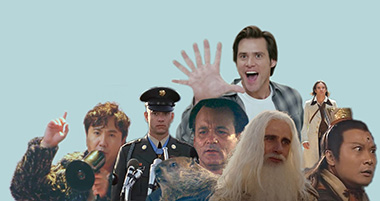
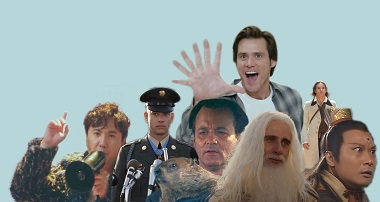
Add files via upload

diff --git a/index.html b/index.html
@@ -11,7 +11,7 @@ body {
 }
 #apDiv1 {
 	position: absolute;
-	left: 238px;
+	left: 100px;
 	top: 96px;
 	width: 931px;
 	height: 124px;
@@ -32,18 +32,26 @@ h3 {
 </head>
 
 <body>
-<div id="apDiv1">
-  <h1><strong><em>Look  here&darr;</em></strong></h1>
-  <li><a href="./file/pintu.tif" target="_blank" title="点击下载原图"><img src="./file/pintu.jpg" alt="人"></a></li>
-  <a href="https://www.baidu.com" target="_blank" title="场景"><img src="./file/sb.jpg" alt="人"></a></li>
-  
-  <blockquote>
-	
-    <h3>Hello,  audience. Welcome to watch this page. This page is only for testing. Thank you.</h3>
-  </blockquote>
+<div id="apDiv1" style="margin-left: auto;  margin-right: auto;  width: auto; height:auto; background-color:rgba(170, 255, 248, 0.2);  padding:20px 0 15px 0">
+ <ul style="list-style-type:none;" ><!--去除列表开头的黑点-->
+	  <h1><strong><em>图片Look  here&darr;</em></strong></h1>
+	  <li>
+		  <a href="./file/pintu.tif" target="_blank" title="点击下载原图"><img src="./file/pintu.jpg" style="width: 300px;height:200.2px" alt="人"></a>
+		<a href="./file/finger.jpg" target="_blank" title="点击下载原图"><img src="./file/finger-1.jpg" style="height:200.2px" alt="人"></a>
+	  </li>
+	  <a href="./file/book.jpg" target="_blank" title="点击下载原图"><img src="./file/book-1.jpg" style="width: 300px;height:200px" alt="人"></a>
+	  <a href="./file/sun.jpg" target="_blank" title="点击下载原图"><img src="./file/sun-1.jpg" style="height:200px" alt="人"></a>
+	  
+		
+	  <li><a style="width: 100%" title="伟大成就鼓舞人心，历史使命催人奋进。"></li>
+	  
+	  <blockquote style="margin-left: auto;  width: 600px; height:auto; background-color:rgba(255, 253, 179, 0.5);  padding:20px 0 15px 10px">
+			<h3>Hello, audience. Welcome to watch this page. This page is only for testing. Thank you.</h3>
+	  </blockquote>
+</ul>
 </div>
 <h2>
-  <!-- #BeginDate format:Ch2 -->2020年4月30日 <!-- #EndDate -->
+  <!-- #BeginDate format:Ch2 -->2021年11月22日 <!-- #EndDate -->
 </h2>
 <h3><br />
 </h3>
